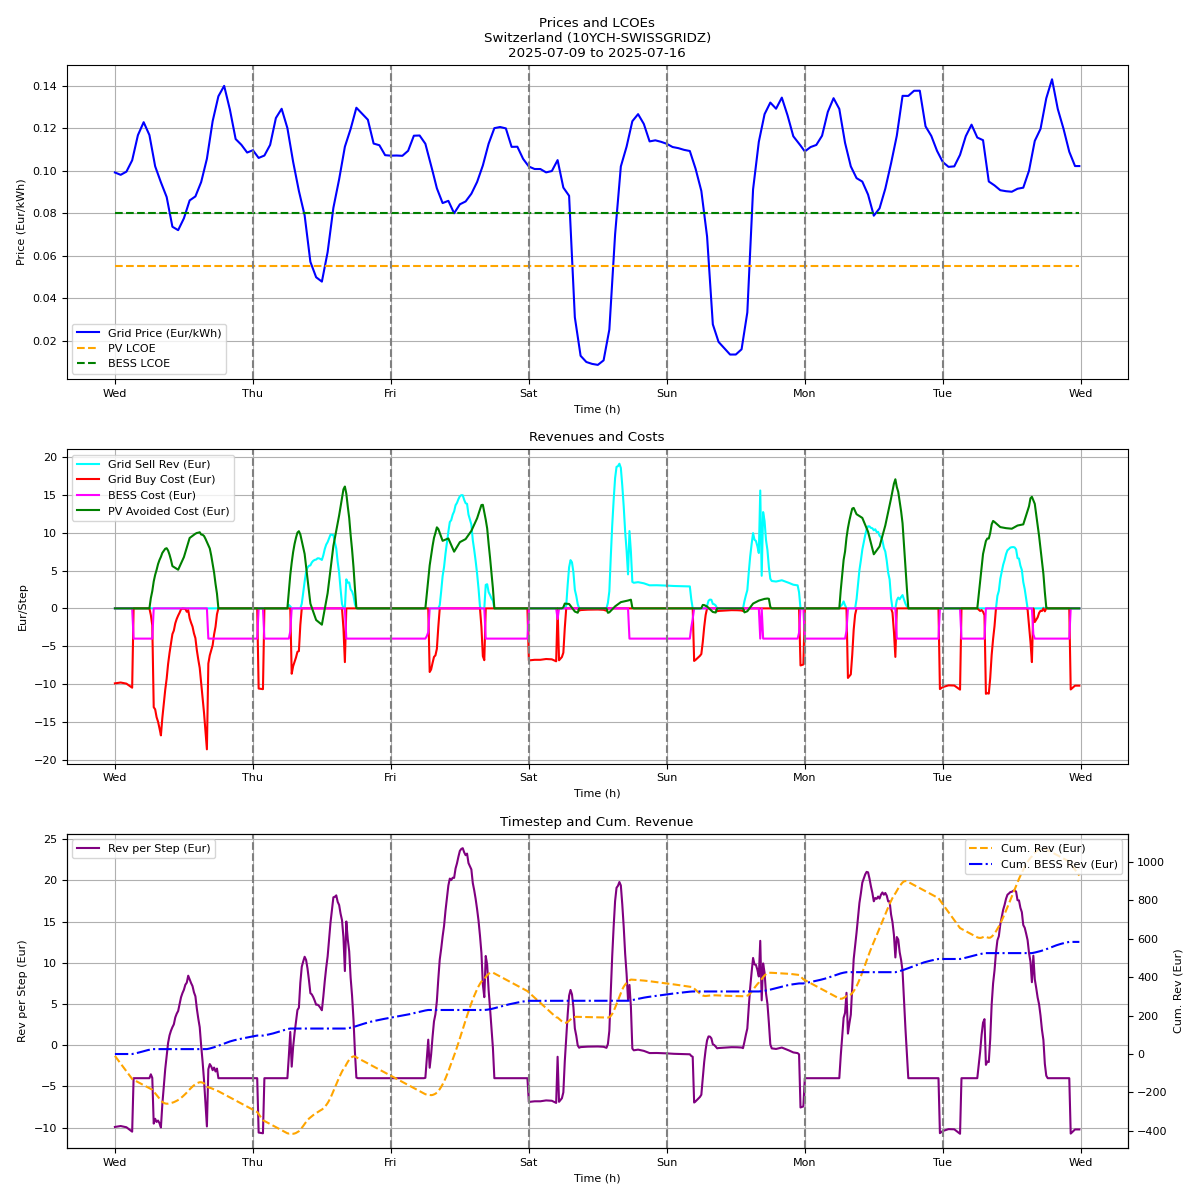
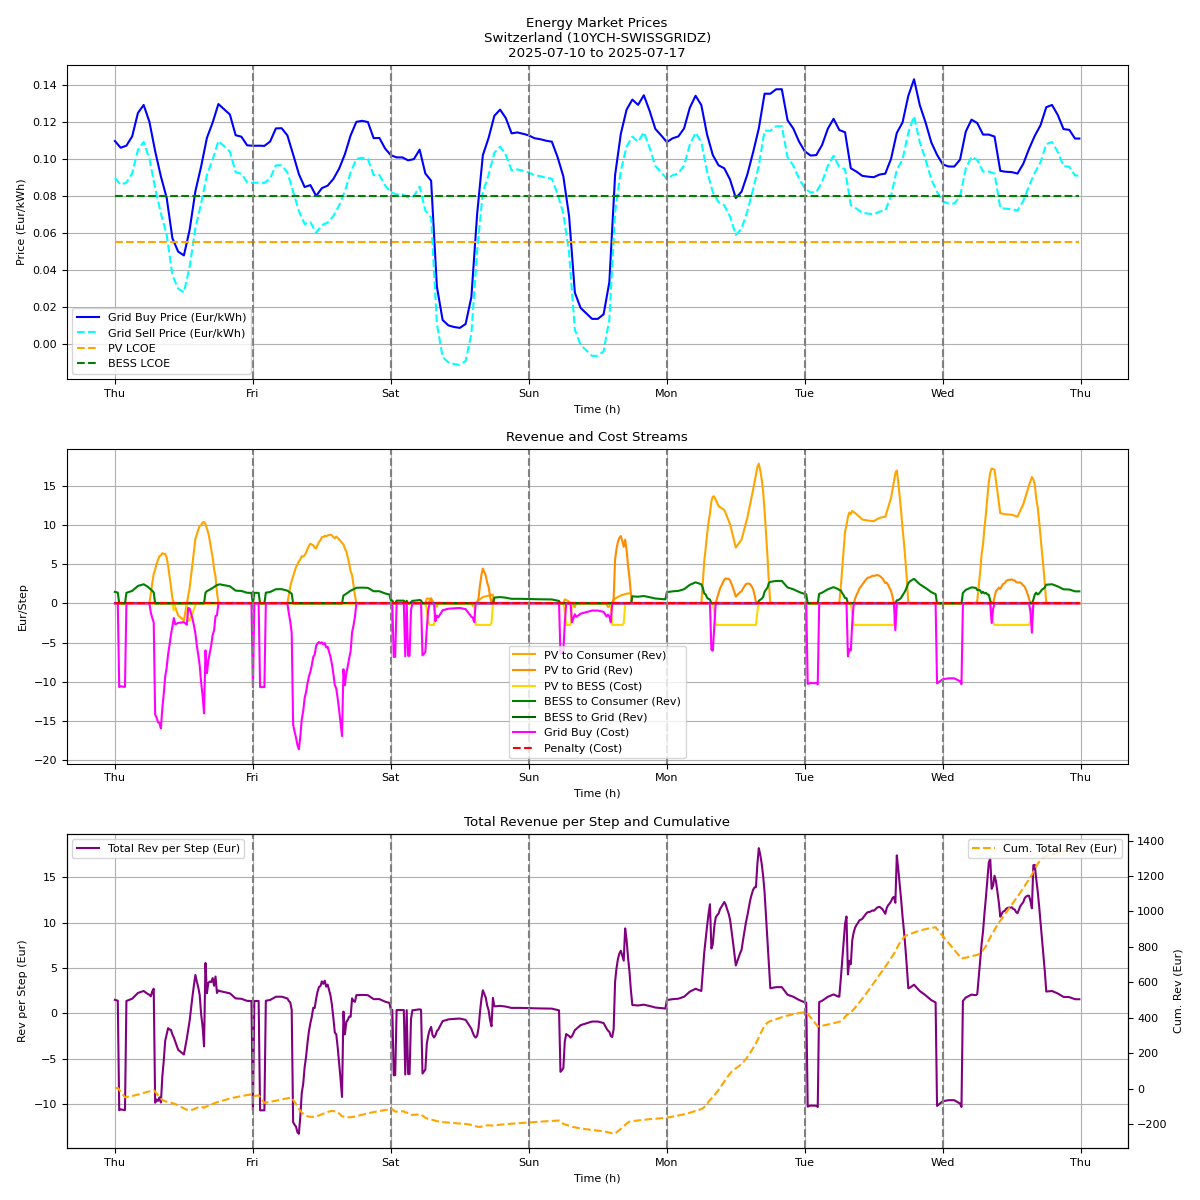
Update Charts for Chashflows

diff --git a/Computing Files/Optimization_GURBI_API.py b/Computing Files/Optimization_GURBI_API.py
@@ -274,7 +274,7 @@ objective = cp.Maximize(revenue)  # Setting maximization objective
 # Creating the optimization problem with objective and constraints
 problem = cp.Problem(objective, constraints)
 # Solving the problem using Gurobi solver with verbose output
-problem.solve(solver=cp.GUROBI, verbose=True)
+problem.solve(solver=cp.GUROBI, verbose=True, MIPGap=0.0001) # 0.025% Error Tolerance for faster COMPUTATION TESTRUNS
 
 # Checking the solver status
 print("Status:", problem.status)
@@ -298,38 +298,32 @@ if problem.status == cp.OPTIMAL:  # Proceeding only if optimal solution found
     P_grid_sold = P_PV_grid_vals + P_BESS_grid_vals  # Total sold to grid
     P_grid_bought = P_grid_consumer_vals + P_grid_BESS_vals  # Total bought from grid
 
-    # Computing per-step revenues and costs for plotting
-    rev_pv_per_step = []  # Initializing lists
-    rev_sell_per_step = []
-    cost_grid_per_step = []
-    cost_bess_per_step = []
-    penalty_per_step = []
-    total_net_per_step = []
-    bess_rev_per_step = []
+    # Computing per-step revenues and costs for plotting, aligned to objective terms
+    pv_to_consumer_rev = []  # PV to consumer: saved buy - PV cost
+    pv_to_grid_rev = []  # PV to grid: sell - PV cost
+    pv_to_bess_cost = []  # PV to BESS: - PV cost
+    bess_to_consumer_rev = []  # BESS to consumer: saved buy - BESS cost
+    bess_to_grid_rev = []  # BESS to grid: sell - BESS cost
+    grid_buy_cost = []  # Grid buys: - buy cost (for consumer + BESS charge)
+    penalty_per_step = []  # Penalty
+    total_net_per_step = []  # Total net per step
     for t in time_indices:  # Looping over time steps
-        # PV to consumer revenue (avoided grid cost minus LCOE)
-        rev_pv = P_PV_consumer_vals[t] * (grid_buy_price[t] - lcoe_pv) * delta_t
-        # Sell to grid revenue
-        rev_sell = (P_PV_grid_vals[t] + P_BESS_grid_vals[t]) * grid_sell_price[t] * delta_t
-        # Grid buy cost (negative)
-        cost_grid = - (P_grid_consumer_vals[t] + P_grid_BESS_vals[t]) * grid_buy_price[t] * delta_t
-        # BESS usage cost (LCOE deduction)
-        cost_bess = - (P_BESS_consumer_vals[t] + P_BESS_grid_vals[t]) * lcoe_bess * delta_t
-        # Penalty for slack
+        pv_cons = P_PV_consumer_vals[t] * (grid_buy_price[t] - lcoe_pv) * delta_t
+        pv_grid = P_PV_grid_vals[t] * (grid_sell_price[t] - lcoe_pv) * delta_t
+        pv_bess = P_PV_BESS_vals[t] * (- lcoe_pv) * delta_t
+        bess_cons = P_BESS_consumer_vals[t] * (grid_buy_price[t] - lcoe_bess) * delta_t
+        bess_grid = P_BESS_grid_vals[t] * (grid_sell_price[t] - lcoe_bess) * delta_t
+        grid_cost = - (P_grid_consumer_vals[t] + P_grid_BESS_vals[t]) * grid_buy_price[t] * delta_t
         penalty = -1e5 * slack_vals[t]
-        # Net revenue per step
-        net_rev = rev_pv + rev_sell + cost_grid + cost_bess + penalty
-        # Appending to lists
-        rev_pv_per_step.append(rev_pv)
-        rev_sell_per_step.append(rev_sell)
-        cost_grid_per_step.append(cost_grid)
-        cost_bess_per_step.append(cost_bess)
+        net_rev = pv_cons + pv_grid + pv_bess + bess_cons + bess_grid + grid_cost + penalty
+        pv_to_consumer_rev.append(pv_cons)
+        pv_to_grid_rev.append(pv_grid)
+        pv_to_bess_cost.append(pv_bess)
+        bess_to_consumer_rev.append(bess_cons)
+        bess_to_grid_rev.append(bess_grid)
+        grid_buy_cost.append(grid_cost)
         penalty_per_step.append(penalty)
         total_net_per_step.append(net_rev)
-
-        # BESS-specific revenue
-        bess_rev = P_BESS_grid_vals[t] * (grid_sell_price[t] - lcoe_bess) * delta_t + P_BESS_consumer_vals[t] * (grid_buy_price[t] - lcoe_bess) * delta_t
-        bess_rev_per_step.append(bess_rev)
 
     # Calculating total revenue
     total_revenue = sum(total_net_per_step)
@@ -411,46 +405,54 @@ if problem.status == cp.OPTIMAL:  # Proceeding only if optimal solution found
     plt.savefig(os.path.join(output_dir, 'Energy_Flows.png'))  # Saving PNG
     plt.show()  # Showing the plot
 
-    # Creating second figure: Financials
+    # Creating second figure: Financials (adapted)
     plt.figure(figsize=(12, 12))  # Figure size
 
-    # Subplot 1: Prices and LCOEs
+    # Subplot 1: Energy Market Price (kept as Prices and LCOEs, but focused on grid price)
     plt.subplot(3, 1, 1)  # First subplot
-    plt.plot(time_steps, grid_buy_price, label='Grid Price (Eur/kWh)', color='blue')  # Plotting buy price
+    plt.plot(time_steps, grid_buy_price, label='Grid Buy Price (Eur/kWh)', color='blue')  # Plotting buy price
+    plt.plot(time_steps, grid_sell_price, label='Grid Sell Price (Eur/kWh)', color='cyan', linestyle='--')  # Adding sell price for completeness
     plt.plot(time_steps, np.full(n_steps, lcoe_pv), label='PV LCOE', color='orange', linestyle='--')  # PV LCOE line
     plt.plot(time_steps, np.full(n_steps, lcoe_bess), label='BESS LCOE', color='green', linestyle='--')  # BESS LCOE line
     plt.xlabel('Time (h)')  # X-label
     plt.ylabel('Price (Eur/kWh)')  # Y-label
     # Title with bidding zone and period info
-    plt.title(f'Prices and LCOEs\n{bidding_zone_desc}\n{period_str}')
+    plt.title(f'Energy Market Prices\n{bidding_zone_desc}\n{period_str}')
     plt.legend(loc='best')  # Legend
     plt.grid(True)  # Grid
     plt.xticks(np.arange(0, 169, 24), day_labels)  # X-ticks with dynamic day labels
     for d in range(1, 7):  # Day boundaries
         plt.axvline(d * 24, color='gray', linestyle='--')
 
-    # Subplot 2: Revenues and Costs
+    # Subplot 2: Revenue and Cost Streams (positive/negative, colored by source: PV orange, BESS green, GRID blue/magenta)
     plt.subplot(3, 1, 2)  # Second subplot
-    plt.plot(time_steps, rev_sell_per_step, label='Grid Sell Rev (Eur)', color='cyan')  # Sell revenue
-    plt.plot(time_steps, cost_grid_per_step, label='Grid Buy Cost (Eur)', color='red')  # Buy cost
-    plt.plot(time_steps, cost_bess_per_step, label='BESS Cost (Eur)', color='magenta')  # BESS cost
-    plt.plot(time_steps, rev_pv_per_step, label='PV Avoided Cost (Eur)', color='green')  # PV avoided cost
+    # PV streams (orange variants)
+    plt.plot(time_steps, pv_to_consumer_rev, label='PV to Consumer (Rev)', color='orange')
+    plt.plot(time_steps, pv_to_grid_rev, label='PV to Grid (Rev)', color='darkorange')
+    plt.plot(time_steps, pv_to_bess_cost, label='PV to BESS (Cost)', color='gold')
+    # BESS streams (green variants)
+    plt.plot(time_steps, bess_to_consumer_rev, label='BESS to Consumer (Rev)', color='green')
+    plt.plot(time_steps, bess_to_grid_rev, label='BESS to Grid (Rev)', color='darkgreen')
+    # Grid streams (blue/magenta)
+    plt.plot(time_steps, grid_buy_cost, label='Grid Buy (Cost)', color='magenta')
+    # Penalty (red, if any)
+    plt.plot(time_steps, penalty_per_step, label='Penalty (Cost)', color='red', linestyle='--')
     plt.xlabel('Time (h)')  # X-label
     plt.ylabel('Eur/Step')  # Y-label
-    plt.title('Revenues and Costs')  # Title
+    plt.title('Revenue and Cost Streams')  # Title
     plt.legend(loc='best')  # Legend
     plt.grid(True)  # Grid
     plt.xticks(np.arange(0, 169, 24), day_labels)  # X-ticks with dynamic day labels
     for d in range(1, 7):  # Day boundaries
         plt.axvline(d * 24, color='gray', linestyle='--')
 
-    # Subplot 3: Revenue per step and cumulative
+    # Subplot 3: Total revenue per time step and cumulative revenue
     plt.subplot(3, 1, 3)  # Third subplot
     ax1 = plt.gca()  # Current axis
-    ax1.plot(time_steps, total_net_per_step, label='Rev per Step (Eur)', color='purple')  # Per-step revenue
+    ax1.plot(time_steps, total_net_per_step, label='Total Rev per Step (Eur)', color='purple')  # Per-step total revenue
     ax1.set_xlabel('Time (h)')  # X-label
     ax1.set_ylabel('Rev per Step (Eur)')  # Y-label
-    ax1.set_title('Timestep and Cum. Revenue')  # Title
+    ax1.set_title('Total Revenue per Step and Cumulative')  # Title
     ax1.legend(loc='upper left')  # Legend
     ax1.grid(True)  # Grid
     ax1.set_xticks(np.arange(0, 169, 24))  # X-ticks
@@ -460,9 +462,7 @@ if problem.status == cp.OPTIMAL:  # Proceeding only if optimal solution found
 
     ax2 = ax1.twinx()  # Twin axis for cumulative
     cumulative_revenue = np.cumsum(total_net_per_step)  # Cumulative net revenue
-    ax2.plot(time_steps, cumulative_revenue, label='Cum. Rev (Eur)', color='orange', linestyle='--')  # Plotting cumulative
-    cumulative_bess_revenue = np.cumsum(bess_rev_per_step)  # Cumulative BESS revenue
-    ax2.plot(time_steps, cumulative_bess_revenue, label='Cum. BESS Rev (Eur)', color='blue', linestyle='-.')  # Plotting BESS cumulative
+    ax2.plot(time_steps, cumulative_revenue, label='Cum. Total Rev (Eur)', color='orange', linestyle='--')  # Plotting cumulative
     ax2.set_ylabel('Cum. Rev (Eur)')  # Y-label
     ax2.legend(loc='upper right')  # Legend
 
